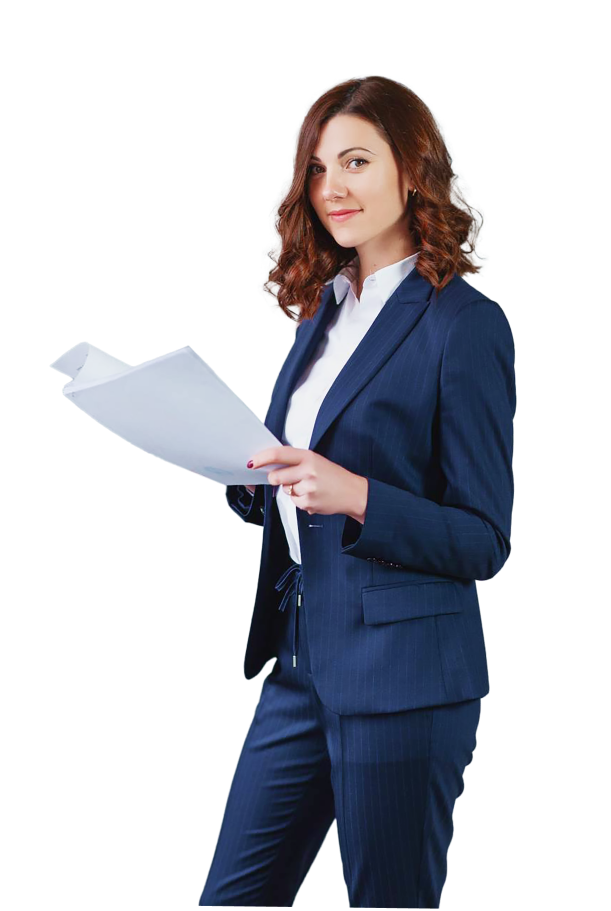
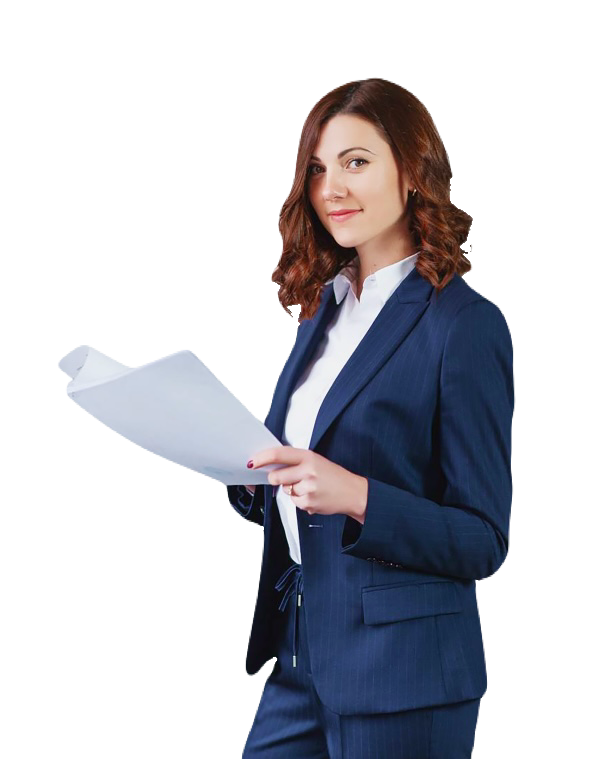
fix: adaptive

Changed region(s): [[0.0933, 0.0606, 0.8707, 1.0]]

diff --git a/index.html b/index.html
@@ -4,7 +4,7 @@
     <meta charset="UTF-8">
     <meta name="viewport" content="width=device-width, initial-scale=1.0">
     <title>Lorem</title>
-    <link rel="preload" href="/assets/Prata-Regular.ttf" as="font">
+    <link rel="preload" href="assets/Prata-Regular.ttf" as="font">
     <link rel="stylesheet" href="styles.css">
     <script defer src="script.js"></script>
 </head>
@@ -28,27 +28,27 @@
                 <h1 class="title">Lorem ipsum<br>dolor sit amet</h1>
                 <h2>sed do eiusmod tempor</h2>
                 <ul class="price-list">
-                    <li><img src="/assets/list.svg" class="check-icon"></img>do <span class="price">&nbsp;$10 000&nbsp;</span> onsectetur elit</li>
-                    <li><img src="/assets/list.svg" class="check-icon"></img><span class="price">&nbsp;30%&nbsp;</span>sed do eiusmod tempor</li>
-                    <li><img src="/assets/list.svg" class="check-icon"></img>do<span class="price">&nbsp;17%&nbsp;</span>adipiscing elit sed do</li>
+                    <li><img src="assets/list.svg" class="check-icon"></img>do <span class="price">&nbsp;$10 000&nbsp;</span> onsectetur elit</li>
+                    <li><img src="assets/list.svg" class="check-icon"></img><span class="price">&nbsp;30%&nbsp;</span>sed do eiusmod tempor</li>
+                    <li><img src="assets/list.svg" class="check-icon"></img>do<span class="price">&nbsp;17%&nbsp;</span>adipiscing elit sed do</li>
                 </ul>
                 <button class="order-button">order</button>
             </div>
-            <img class="screen-image" src="/assets/building1.png" alt="Building">
+            <img class="screen-image" src="assets/building1.png" alt="Building">
         </section>        
 
         <section class="second-screen">
-            <img class="side-image" src="/assets/building3.png" alt="Building">
+            <img class="side-image" src="assets/building3.png" alt="Building">
             <div class="center-content">
                 <ul class="description-list">
-                    <li><img src="/assets/list2.svg" class="check-icon__second"></img>Lorem ipsum dolor sit amet, adipiscing elit, sed do eiusmod tempor</li>
-                    <li><img src="/assets/list2.svg" class="check-icon__second"></img>Lorem ipsum dolor sit amet, consectetur adipiscing elit, sed do eiusmod tempor</li>
-                    <li><img src="/assets/list2.svg" class="check-icon__second"></img>Lorem ipsum dolor sit amet, consectetur adipiscing elit, sed do eiusmod tempor Lorem ipsum dolor sit amet, consectetur adipiscing elit, sed do eiusmod tempor</li>
-                    <li><img src="/assets/list2.svg" class="check-icon__second"></img>Lorem ipsum dolor amet, consectetur adipiscing elit, sed do eiusmod tempor</li>
+                    <li><img src="assets/list2.svg" class="check-icon__second"></img>Lorem ipsum dolor sit amet, adipiscing elit, sed do eiusmod tempor</li>
+                    <li><img src="assets/list2.svg" class="check-icon__second"></img>Lorem ipsum dolor sit amet, consectetur adipiscing elit, sed do eiusmod tempor</li>
+                    <li><img src="assets/list2.svg" class="check-icon__second"></img>Lorem ipsum dolor sit amet, consectetur adipiscing elit, sed do eiusmod tempor Lorem ipsum dolor sit amet, consectetur adipiscing elit, sed do eiusmod tempor</li>
+                    <li><img src="assets/list2.svg" class="check-icon__second"></img>Lorem ipsum dolor amet, consectetur adipiscing elit, sed do eiusmod tempor</li>
                 </ul>
                 <button class="order-button order-button__second">order</button>
             </div>
-            <img class="side-image" src="/assets/building2.png" alt="Building">
+            <img class="side-image" src="assets/building2.png" alt="Building">
         </section>
 
         <section class="third-screen">
@@ -61,9 +61,9 @@
                         <input type="checkbox" name="privacy-policy">I accept Privacy policy
                     </label>
                     <button type="submit">submit form</button>
-                    <img class="form-image" src="/assets/form-building.png" alt="Building">
-                    <img class="form-image2" src="/assets/woman.png" alt="Woman">
                 </form>
+                <img class="form-image" src="assets/form-building.png" alt="Building">
+                <img class="form-image2" src="assets/woman.png" alt="Woman">
             </div>
         </section>        
     </main>
@@ -78,9 +78,12 @@
             <h1 class="logo">lorem</h1>
             <menu>
                 <ul>
-                    <li href="#">FB</li>
-                    <li href="#">TW</li>
-                    <li href="#">IG</li>
+                    <li href=""><img src="assets/in.svg"></img></li>
+                    <li href=""><img src="assets/tt.svg"></img></li>
+                    <li href=""><img src="assets/in.svg"></img></li>
+                    <li href=""><img src="assets/fb.svg"></img></li>
+                    <li href=""><img src="assets/tg.svg"></img></li>
+                    <li href=""><img src="assets/yt.svg"></img></li>
                 </ul>
             </menu>
             <button class="order-button">order</button>

diff --git a/styles.css b/styles.css
@@ -51,7 +51,6 @@ body {
 
 .first-screen {
     display: flex;
-    height: 100vh;
     position: relative;
 }
 
@@ -154,7 +153,6 @@ h2 {
 
 .screen-image {
     width: 40%;
-    height: 100%;
     object-fit: cover;
 }
 
@@ -167,7 +165,7 @@ h2 {
 }
 
 .side-image {
-    height: 100%;
+    width: 33%;
     object-fit: cover;
 }
 
@@ -193,6 +191,8 @@ h2 {
 
 .contact-form {
     width: 55%;
+    display: flex;
+    flex-direction: column;
 }
 
 .form-title {
@@ -203,7 +203,6 @@ h2 {
 
 form input,
 form button {
-    width: 100%;
     padding: 15px;
     margin-bottom: 20px;
     border: 1px #D6D6D6 solid;
@@ -218,6 +217,7 @@ form input::placeholder {
 form label {
     color: #55565A;
     font-size: 19px;
+    align-self: flex-start;
 }
 
 form input[type="checkbox"] {
@@ -226,7 +226,6 @@ form input[type="checkbox"] {
 
 form button {
     font-size: 24px;
-    width: 104%;
     color: #fff;
     background-color: #282829;
     border: 1px solid #ccc;
@@ -242,10 +241,12 @@ form button {
 }
 
 .form-image2 {
-    position: absolute;
     object-fit: contain;
+    position: absolute;
     top: -130px;
+    bottom: -5px;
     left: 910px;
+    height: -webkit-fill-available;
 }
 
 .center-text {
@@ -286,9 +287,12 @@ form button {
     padding: 0 183px 38px 162px;
 }
 
-/* Существующие стили остаются без изменений */
+@media (max-width: 1770px) {
+    .form-image, .form-image2 {
+        display: none;
+    }
+}
 
-/* Адаптивность */
 @media (max-width: 1024px) {
     .header-content {
         gap: 50px;
@@ -321,6 +325,9 @@ form button {
         text-align: center;
         padding: 50px 20px;
     }
+    .side-image{
+        width: -webkit-fill-available;
+    }
     .center-content {
         width: 100%;
     }
@@ -347,13 +354,22 @@ form button {
         align-items: center;
         padding: 20px;
     }
+    menu, menu ul {
+        padding: 0;
+    }
 }
 
 @media (max-width: 480px) {
+    body {
+        margin-block-start: 80px;
+    }
     .header-content {
         flex-direction: column;
         align-items: center;
         gap: 10px;
+    }
+    .first-screen {
+        height: 100%;
     }
     .text-content {
         padding: 50px 10px;
@@ -378,5 +394,10 @@ form button {
     }
     form input::placeholder {
         font-size: 18px;
+    }
+    .center-text {
+        display: flex;
+        flex-direction: column;
+        align-items: center;
     }
 }
